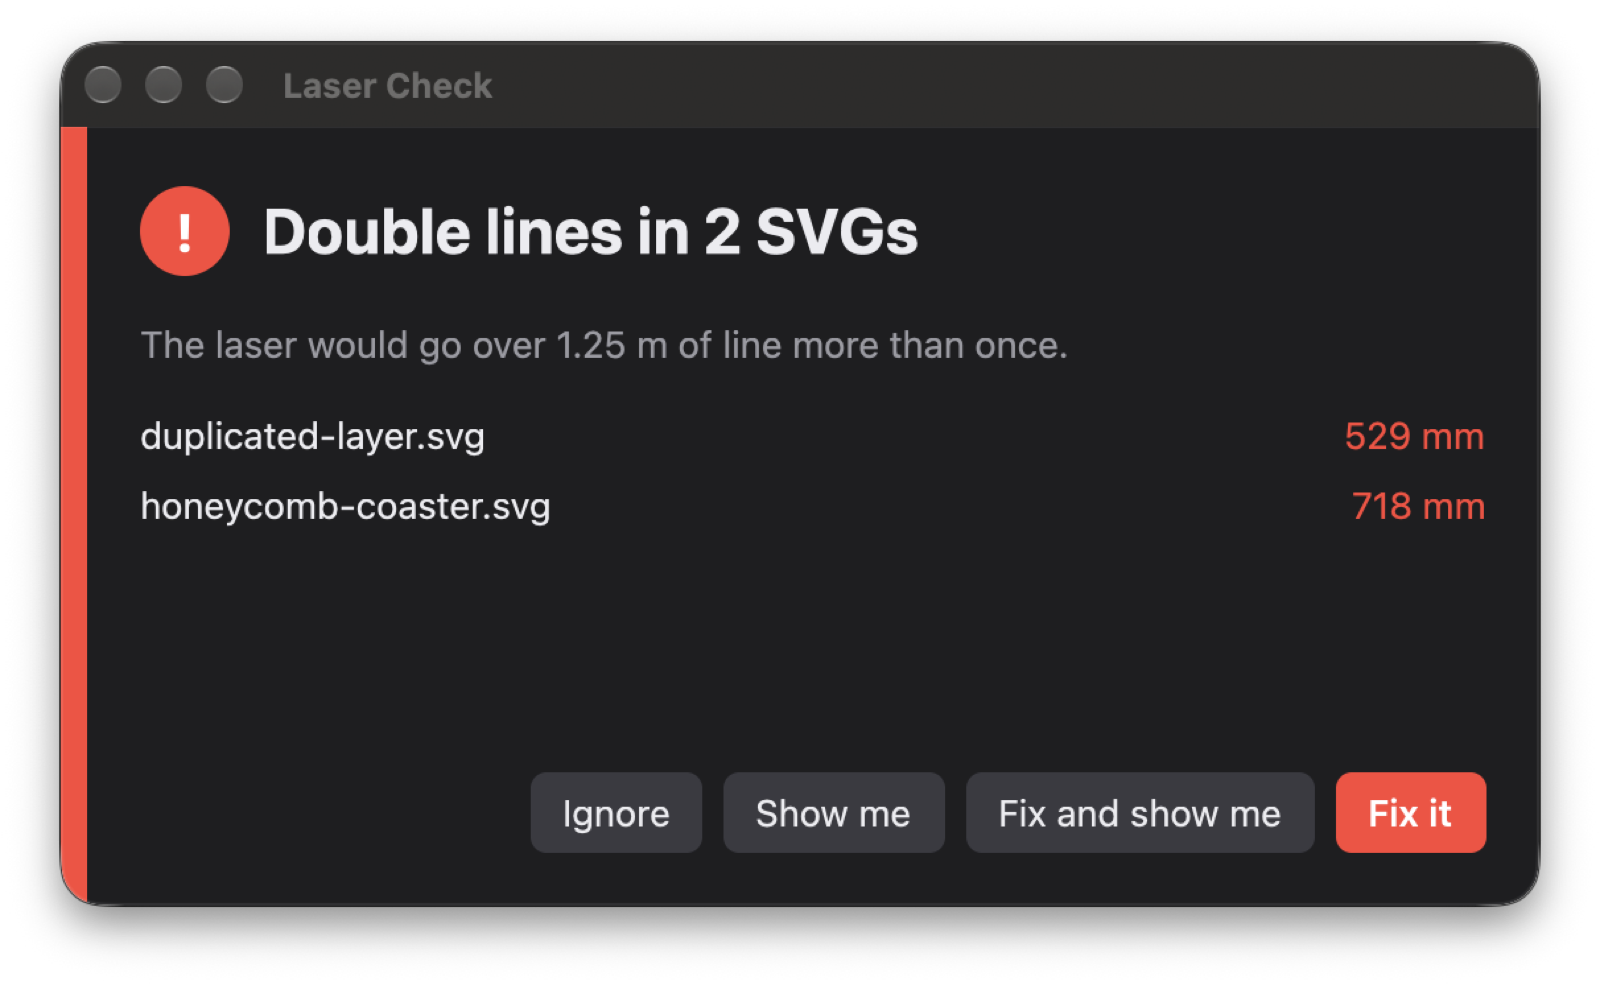
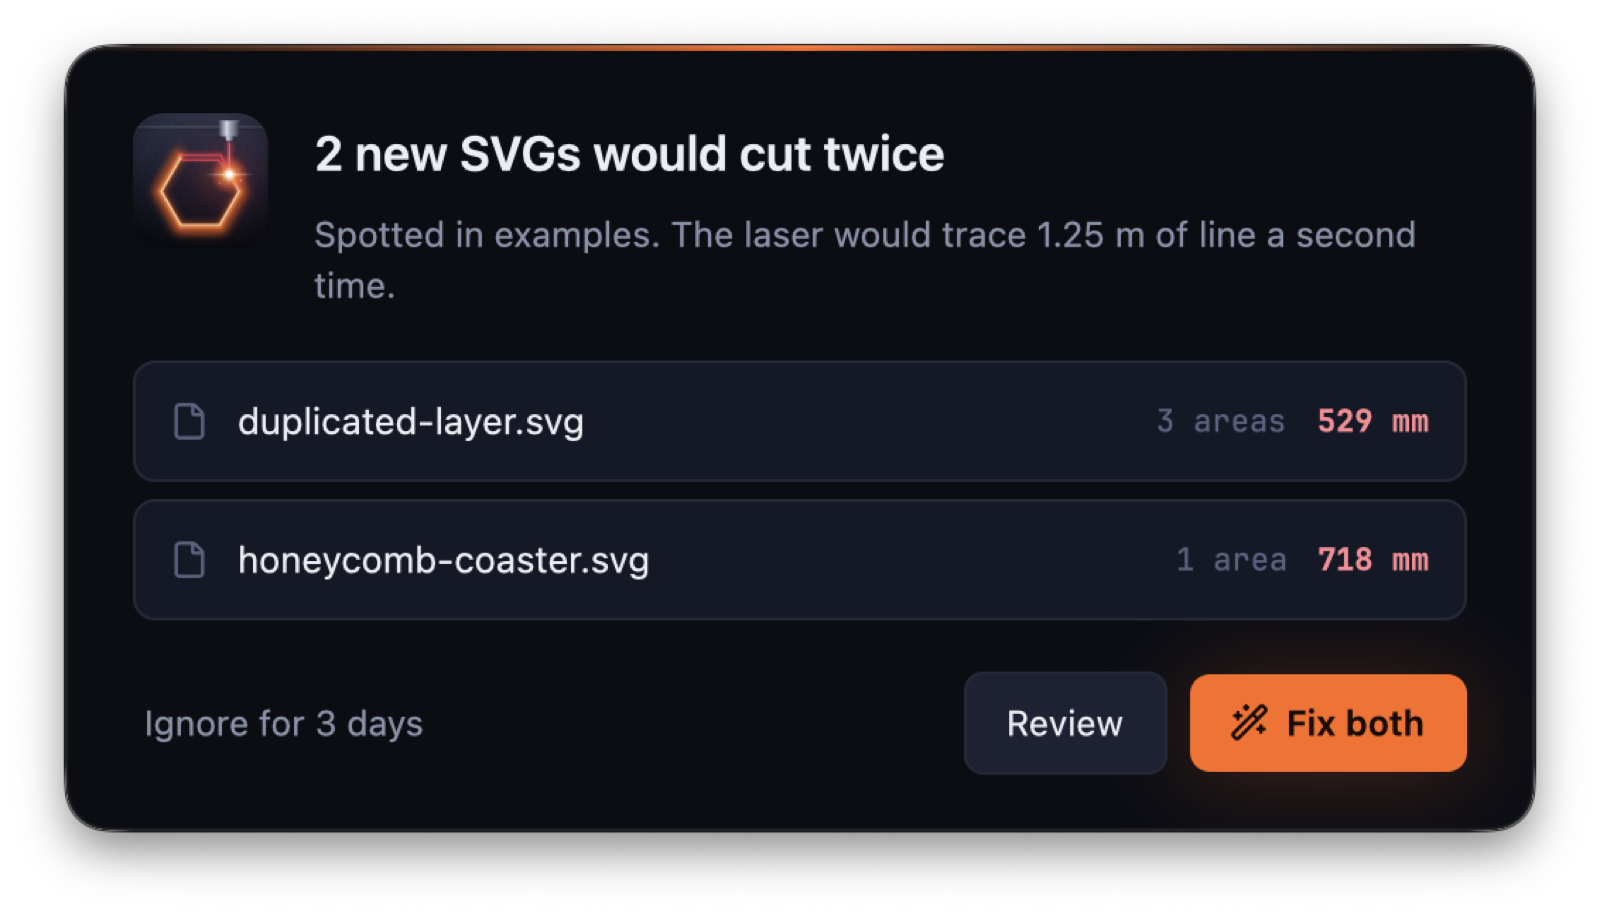
zoomed markers sit beside their area, hint only when areas are tiny, docs and screenshots for the redesign

diff --git a/src/ui/review.rs b/src/ui/review.rs
@@ -152,7 +152,11 @@ impl Review {
 
     fn add(&mut self, paths: Vec<PathBuf>, cx: &mut Context<Self>) {
         let s = self.settings;
-        let mut paths = crate::collect_svgs(paths);
+        // Absolute paths, so the folder line and fixed-copy matching work.
+        let mut paths: Vec<PathBuf> = crate::collect_svgs(paths)
+            .into_iter()
+            .map(|p| p.canonicalize().unwrap_or(p))
+            .collect();
         // Originals first, so a name-fixed.svg can find its original.
         paths.sort_by_key(|p| is_fixed_name(p));
         for path in paths {
@@ -983,13 +987,21 @@ impl Review {
         if !after && bad {
             // Markers sit over the image at the same scale it was drawn at.
             let k = w as f64 / region.width();
+            let zoomed = self.zoom.is_some();
             let to_px = |p: kurbo::Point| ((p.x - region.x0) * k, (p.y - region.y0) * k);
             let mut markers: Vec<(usize, f64, f64)> = original
                 .areas
                 .iter()
                 .enumerate()
                 .map(|(i, a)| {
-                    let (x, y) = to_px(a.rect.center());
+                    // Whole sheet: on the area. Zoomed in: just off its top-left
+                    // corner, so the marker doesn't hide the line it points at.
+                    let (x, y) = if zoomed {
+                        let (x, y) = to_px(a.rect.origin());
+                        (x - 16.0, y - 16.0)
+                    } else {
+                        to_px(a.rect.center())
+                    };
                     (i, x, y)
                 })
                 .filter(|&(_, x, y)| x >= 0.0 && y >= 0.0 && x <= w as f64 && y <= h as f64)
@@ -999,7 +1011,13 @@ impl Review {
             for (i, x, y) in markers {
                 pane = pane.child(self.marker(i, x as f32, y as f32, t, cx));
             }
-            if self.zoom.is_none() {
+            // Only nag when the doubled lines really are too small to make out.
+            let largest = original
+                .areas
+                .iter()
+                .map(|a| a.rect.width().max(a.rect.height()) * k)
+                .fold(0.0, f64::max);
+            if largest < 24.0 {
                 pane = pane.child(banner(
                     "scan-search",
                     "Too small to see at this zoom. Click a number, or press ↓ to step through.".into(),

diff --git a/README.md b/README.md
@@ -1,5 +1,5 @@
 <p align="center">
-  <img src="docs/images/banner.svg" alt="Laser Check" width="100%">
+  <img src="docs/images/banner.png" alt="Laser Check: catches the lines your laser would cut twice, and fixes them before they reach the cutter." width="100%">
 </p>
 
 <p align="center">
@@ -38,8 +38,9 @@ Laser Check sits quietly in the background, looks at every SVG that lands in you
 ## Features
 
 - **Watches folders for you.** New SVGs in `~/Downloads` (or any folders you choose) are checked within a couple of seconds of arriving. Files still being written are left alone until they settle.
-- **An alert you won't miss.** A floating window with a sound, listing each file and how much line would be cut twice. Fix it, see it, or both.
-- **See exactly what's wrong.** Doubled lines are drawn in red over the whole sheet. Step through each problem area with ◀ ▶.
+- **An alert you won't miss.** A floating window with a sound, listing each file, how many areas and how much line would be cut twice. Fix them there and then, or review first.
+- **Checked fixes.** After fixing, every fixed copy is checked against its original: no line may go missing and nothing may still be doubled. Only then is it marked **verified**.
+- **See exactly what's wrong.** Every problem area gets a numbered marker on the sheet, with its length in an inspector alongside. Click a number or press <kbd>↓</kbd> to zoom in on it, and flip between **Original** and **After fix**.
 - **Safe fixes.** The fix keeps the first copy of every line and trims the rest, joining paths back up where it can. It writes `name-fixed.svg` next to the original and never touches the original. Everything it didn't need to change, from layers and ids to colours, text and images, is copied byte for byte.
 - **Review a batch.** Open the app and drop in SVGs, a selection, or whole folders. Fix them one at a time or all at once.
 - **Doesn't nag.** Files are remembered by content hash. Clean files are never checked again; a file you've already been warned about stays quiet for 3 days. The app's own fixed copies are never flagged.
@@ -69,10 +70,11 @@ See [Building from source](#building-from-source).
 
 | Button | What it does |
 | --- | --- |
-| **Fix it** | Writes `name-fixed.svg` next to each file. The alert changes to show where they went. |
-| **Show me** | Opens the review window with the doubled lines in red. |
-| **Fix and show me** | Both. The review window then shows which fixed copies were written. |
-| **Ignore** | Closes the alert. You won't hear about this exact file again for 3 days. |
+| **Fix it** / **Fix both** / **Fix all** | Writes `name-fixed.svg` next to each file, then checks each fixed copy. The alert turns green and lists them, marked **verified** once they pass. |
+| **Review** | Opens the review window so you can see the problems first. |
+| **Ignore for 3 days** | Closes the alert. You won't hear about these exact files again until then (the number follows `rewarn_days`). |
+
+After fixing, **Show me** opens the review window and **Show in Finder** points at the fixed copies.
 
 ### The review window
 
@@ -82,7 +84,14 @@ Open **Laser Check** from Applications (or Spotlight) to get the review window. 
 - click **Add files…** (or press <kbd>⌘</kbd><kbd>O</kbd>), or
 - drop files onto the app icon in the Dock, or choose **Open With → Laser Check** in Finder.
 
-Folders are searched for SVGs, including folders inside them. Pick a file on the left to see it. **Whole sheet** shows everything, and ◀ ▶ zoom to each cluster of doubled lines with an orange box around it. **Fix it** fixes the file you're looking at; **Fix all** does every file with problems. **Show in Finder** reveals the fixed copy once there is one.
+Folders are searched for SVGs, including folders inside them. The sidebar sorts files into **To fix**, **Fixed** and **Clean**. A `name-fixed.svg` that sits next to its original is shown under it rather than as a file of its own.
+
+Pick a file to see the whole sheet with a numbered marker on every problem area. Doubled lines are usually far too small to see at that size, so:
+
+- click a number to zoom to that area, or use <kbd>↑</kbd> <kbd>↓</kbd> to step through them,
+- the inspector on the right lists every area with its length, and shows the selected one up close,
+- **Original** / **After fix** switches between the file as it is and the fixed copy,
+- **Fix this file** (<kbd>⌘</kbd><kbd>↩</kbd>) fixes the file you're looking at, and **Fix all** does every file in **To fix**.
 
 ## How it decides
 
@@ -144,7 +153,7 @@ If the log says it can't read the folder, open **System Settings → Privacy & S
 
 **macOS asks about Downloads again after an update.** macOS ties that permission to the exact build, so a new version asks once more.
 
-**A file is flagged but I can't see anything wrong.** Click **Show me** and step through the areas. Doubled lines are often tiny fragments a few millimetres long, sitting on top of each other in an otherwise empty part of the sheet.
+**A file is flagged but I can't see anything wrong.** Open it in the review window and step through the areas with <kbd>↓</kbd>. Doubled lines are often tiny fragments a few millimetres long, sitting on top of each other in an otherwise empty part of the sheet.
 
 **I want it stricter or looser.** Lower `min_overlap_mm` to catch shorter doubled stretches, or raise `tolerance_mm` if your copies are offset slightly rather than exactly on top of each other.
 
@@ -182,4 +191,4 @@ scripts/install.sh --no-agent    # same, without the watcher
 
 ## Licence
 
-[MIT](LICENSE). The UI is built with [gpui](https://gpui.rs), the framework behind the Zed editor.
+[MIT](LICENSE). The UI is built with [gpui](https://gpui.rs), the framework behind the Zed editor. Icons are from [Lucide](https://lucide.dev) (ISC), and numbers are set in [JetBrains Mono](https://www.jetbrains.com/lp/mono/), bundled under the [SIL Open Font Licence](assets/fonts/OFL.txt).

diff --git a/docs/development.md b/docs/development.md
@@ -38,7 +38,10 @@ src/
   fix.rs       rebuilds touched elements and splices them into the original text
   verify.rs    checks a fixed file still covers every original line
   render.rs    tiny-skia preview with the red highlights
-  ui.rs        gpui windows: review and alert
+  ui.rs        app setup, bundled icons and font, shared types
+  ui/theme.rs  design tokens, icons, buttons, number formatting
+  ui/review.rs review window: sidebar, preview with area markers, inspector
+  ui/alert.rs  the watcher's alert, including fixing and verifying
   watch.rs     FSEvents watcher, and the short-lived `scan` process
   store.rs     content-hash history (seen.json)
   config.rs    config.toml
@@ -48,6 +51,7 @@ scripts/
   install-app.sh  install a built app + login agent; ships in the release zip
   Info.plist      app bundle template
   make-icon.swift renders assets/icon.svg into assets/AppIcon.icns
+assets/        app icon, Lucide icons (icons/) and JetBrains Mono (fonts/)
 examples/      synthetic SVGs used in the docs and CI
 docs/          these docs and the README images
 ```
@@ -73,10 +77,12 @@ for f in some/folder/*-fixed.svg; do laser-check verify "${f%-fixed.svg}.svg" "$
 
 ## gpui notes
 
-- **Opening a window from a click handler deadlocks.** Making the new window key calls back into the window whose handler is still running. Wrap it in `cx.defer`. See `Alert::show`.
+- **Opening a window from a click handler deadlocks.** Making the new window key calls back into the window whose handler is still running. Wrap it in `cx.defer`. See `Alert::review`.
 - **Closing the last window quits the app**, by design. So when swapping one window for another, open the new one before removing the old.
 - The preview is drawn with tiny-skia on a background thread and shown as a `RenderImage`. gpui expects BGRA, so the channels are swapped. Old images are released with `cx.drop_image`.
-- The alert uses `WindowKind::PopUp`, which floats above other apps' windows.
+- The alert uses `WindowKind::PopUp`, which floats above other apps' windows. It has no title bar, so macOS draws its corners and shadow; a `canvas` inside the card measures it and resizes the window to fit.
+- A window on a Space you can't see stops redrawing, so screenshots and clicks there look stale. Test from a normal desktop Space.
+- Colours come from the tokens in `ui/theme.rs`, which follow the design brief. Only dark mode has been designed; light mode keeps the older values.
 
 ## The icon
 
